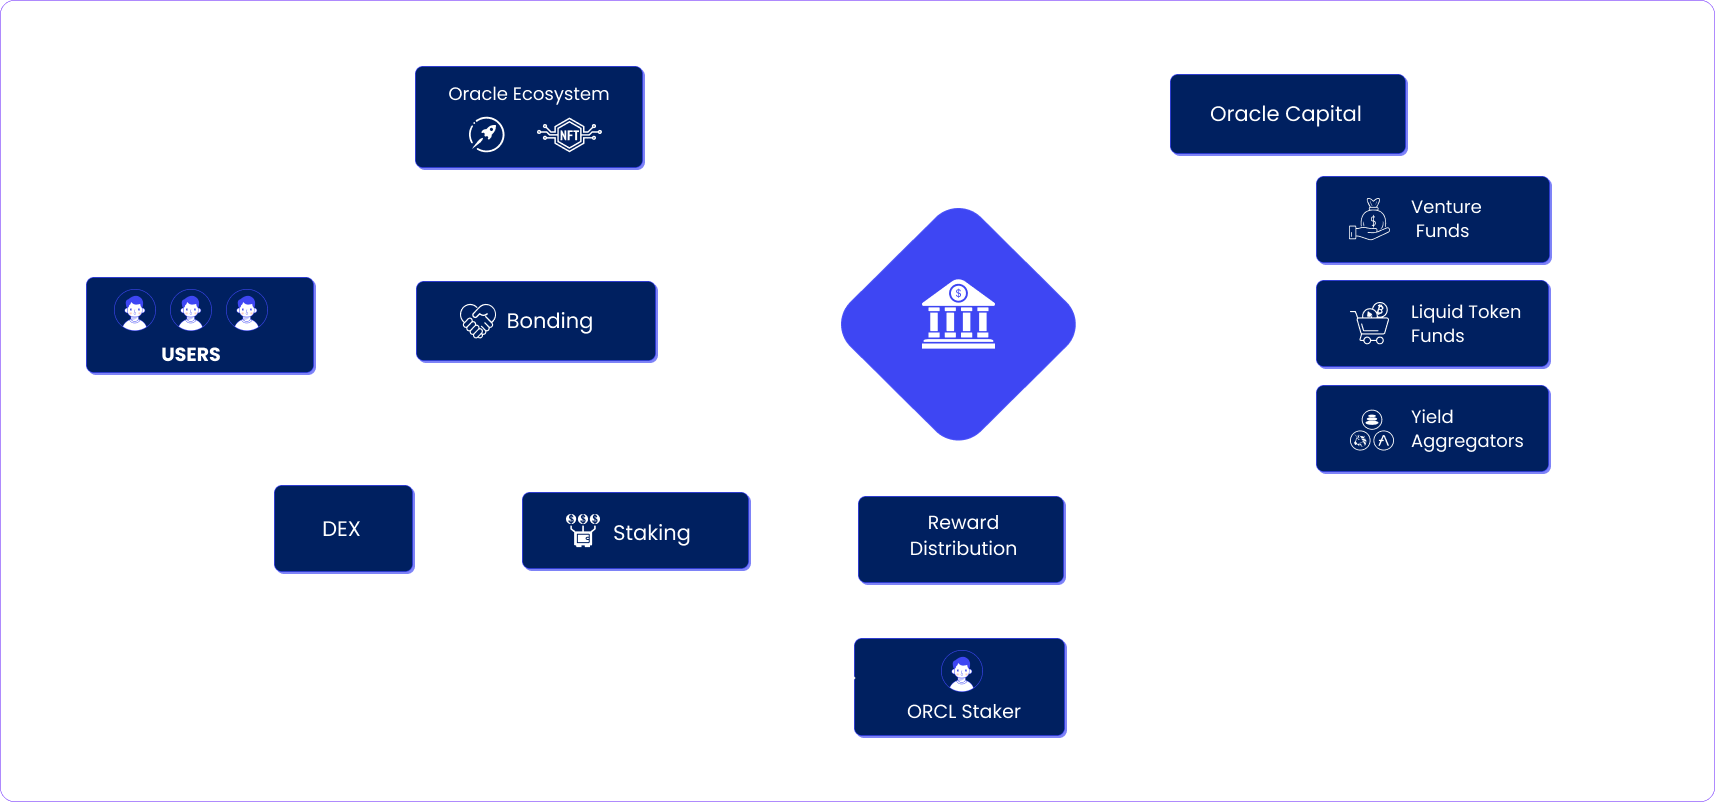
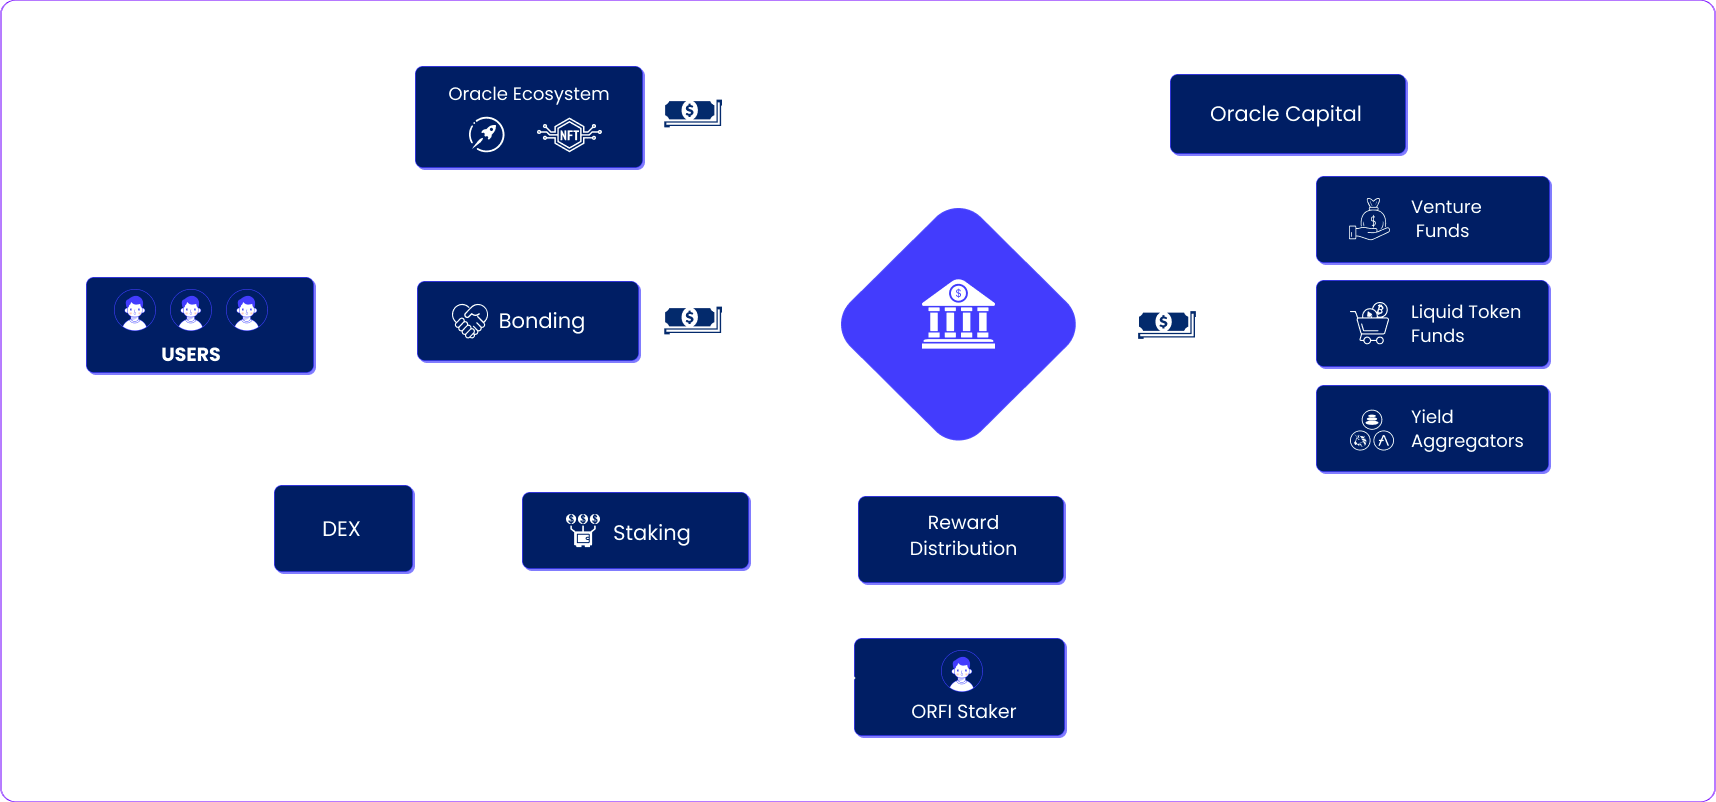
Changed ORCL to ORFI and few other fixes

diff --git a/index.html b/index.html
@@ -3,6 +3,7 @@
 
 <head>
     <meta charset="utf-8">
+    <link rel="icon" href="assets/img/favicon.ico" />
     <meta name="viewport" content="width=device-width, initial-scale=1">
 
     <link href="assets/css/bootstrap.min.css" rel="stylesheet">
@@ -119,8 +120,8 @@
                     <div class="logo-small m-2"></div>
                 </div>
                 <p>Staking & Bonding</p>
-                <p>Primary ways for users to build wealth. Users can purchase ORCL at discounted price
-                    via bonding and/or can stake ORCL to receive passive yields</p>
+                <p>Primary ways for users to build wealth. Users can purchase ORFI at discounted price
+                    via bonding and/or can stake ORFI to receive passive yields</p>
             </div>
             <div class="p-5 mt-3 flex-grow-1 me-3">
                 <div class="mb-3">
@@ -183,30 +184,31 @@
                 <div>
                     <img src="assets/img/dec.png">
                     <div>
-                        <p class="month">January</p>
+                        <p class="month">February</p>
                         <ul>
                             <li>Discord, Twitter, and Telegram Launch</li>
                             <li>Marketing operation initiates</li>
                             <li>Team Building</li>
+                            <li>Publish Oracle Finance Whitepaper</li>
                         </ul>
                     </div>
                 </div>
                 <div>
                     <img src="assets/img/jan.png">
                     <div>
-                        <p class="month">February</p>
+                        <p class="month">March</p>
                         <ul>
-                            <li>Publish Oracle Finance Whitepaper</li>
-                            <li>TestApp Launch</li>
                             <li>Core contract ready</li>
-                            <li>LaunchPad contracts ready</li>
+                            <li>LaunchPad ready</li>
+                            <li>TestApp Launch</li>
+                            <li>Partnerships and Marketing</li>
                         </ul>
                     </div>
                 </div>
                 <div>
                     <img src="assets/img/mar.png">
                     <div>
-                        <p class="month">March</p>
+                        <p class="month">April</p>
                         <ul>
                             <li>Community Pre-Sale</li>
                             <li>Fair-Launch</li>
@@ -219,7 +221,7 @@
                 <div>
                     <img src="assets/img/apr.png">
                     <div>
-                        <p class="month">April</p>
+                        <p class="month">May</p>
                         <ul>
                             <li>Yield Aggregators Go Live</li>
                             <li>Governance setup</li>
@@ -317,7 +319,7 @@
                     <h2 class="accordion-header" id="headingOne">
                         <button class="accordion-button" type="button" data-bs-toggle="collapse"
                             data-bs-target="#collapseOne" aria-expanded="true" aria-controls="collapseOne">
-                            <strong>01&nbsp;&nbsp;&nbsp;</strong>What will be $ORCL's intrinsic value in the future?
+                            <strong>01&nbsp;&nbsp;&nbsp;</strong>What will be $ORFI's intrinsic value in the future?
                         </button>
                     </h2>
                     <div id="collapseOne" class="accordion-collapse collapse show" aria-labelledby="headingOne"
@@ -339,7 +341,7 @@
                         data-bs-parent="#accordionExample">
                         <div class="accordion-body">
                             The total profit generated by the protocol is distributed to all stakers in stable coins.
-                            The amount each staker gets will depend on how much ORCL they staked and how long they were
+                            The amount each staker gets will depend on how much ORFI they staked and how long they were
                             in the protocol in the respective cycle.
                         </div>
                     </div>
@@ -355,9 +357,9 @@
                         data-bs-parent="#accordionExample">
                         <div class="accordion-body">
                             Oracle protocol makes sure that the bonding price is always greater than the TAV (total
-                            assets backing of an ORCL token). The premium that is charged on each bond sale increases
-                            the TAV per ORCL. In simple terms, bonding increases the backing per ORCL, making it more
-                            valuable. Also, whenever ORCL is minted then it is backed by the TAV which gives it an
+                            assets backing of an ORFI token). The premium that is charged on each bond sale increases
+                            the TAV per ORFI. In simple terms, bonding increases the backing per ORFI, making it more
+                            valuable. Also, whenever ORFI is minted then it is backed by the TAV which gives it an
                             intrinsic value.
                         </div>
                     </div>
@@ -366,7 +368,7 @@
                     <h2 class="accordion-header" id="headingFour">
                         <button class="accordion-button collapsed" type="button" data-bs-toggle="collapse"
                             data-bs-target="#collapseFour" aria-expanded="true" aria-controls="collapseFour">
-                            <strong>04&nbsp;&nbsp;&nbsp;</strong>Why should I stake $ORCL?
+                            <strong>04&nbsp;&nbsp;&nbsp;</strong>Why should I stake $ORFI?
                         </button>
                     </h2>
                     <div id="collapseFour" class="accordion-collapse collapse" aria-labelledby="headingFour"
@@ -375,7 +377,7 @@
                             The profit generated by the treasury investments and from the platforms (launchpads, NFT
                             marketplace and many more) is distributed among the stakers. Staking ensures that you will
                             receive rewards in every profit distribution cycle.
-                            Also sORCL holders get exclusive access to different features in the protocol
+                            Also sORFI holders get exclusive access to different features in the protocol
                         </div>
                     </div>
                 </div>
@@ -384,7 +386,7 @@
                     <h2 class="accordion-header" id="headingFive">
                         <button class="accordion-button collapsed" type="button" data-bs-toggle="collapse"
                             data-bs-target="#collapseFive" aria-expanded="true" aria-controls="collapseFive">
-                            <strong>05&nbsp;&nbsp;&nbsp;</strong>What happens when the market price of $ORCL goes below
+                            <strong>05&nbsp;&nbsp;&nbsp;</strong>What happens when the market price of $ORFI goes below
                             the backing?
                         </button>
                     </h2>
